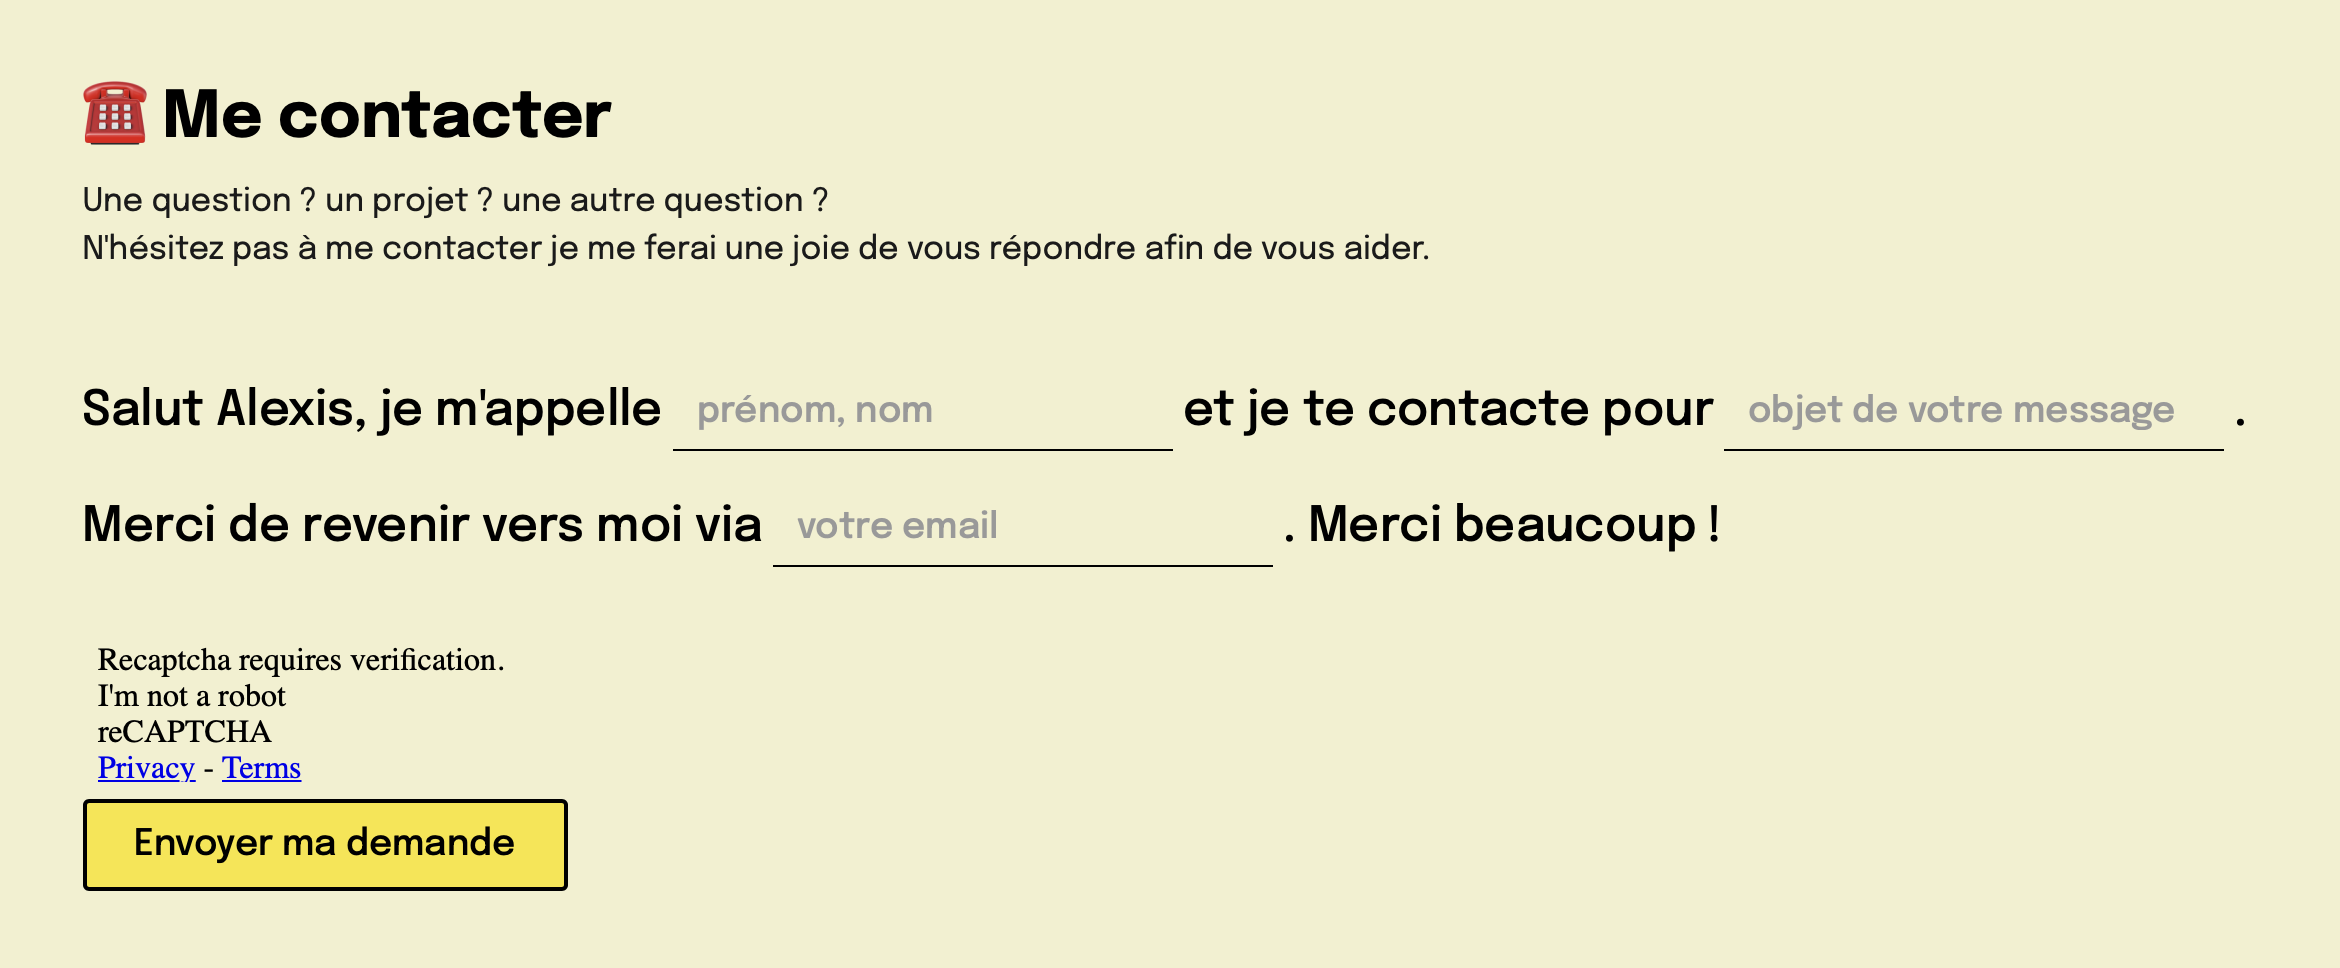
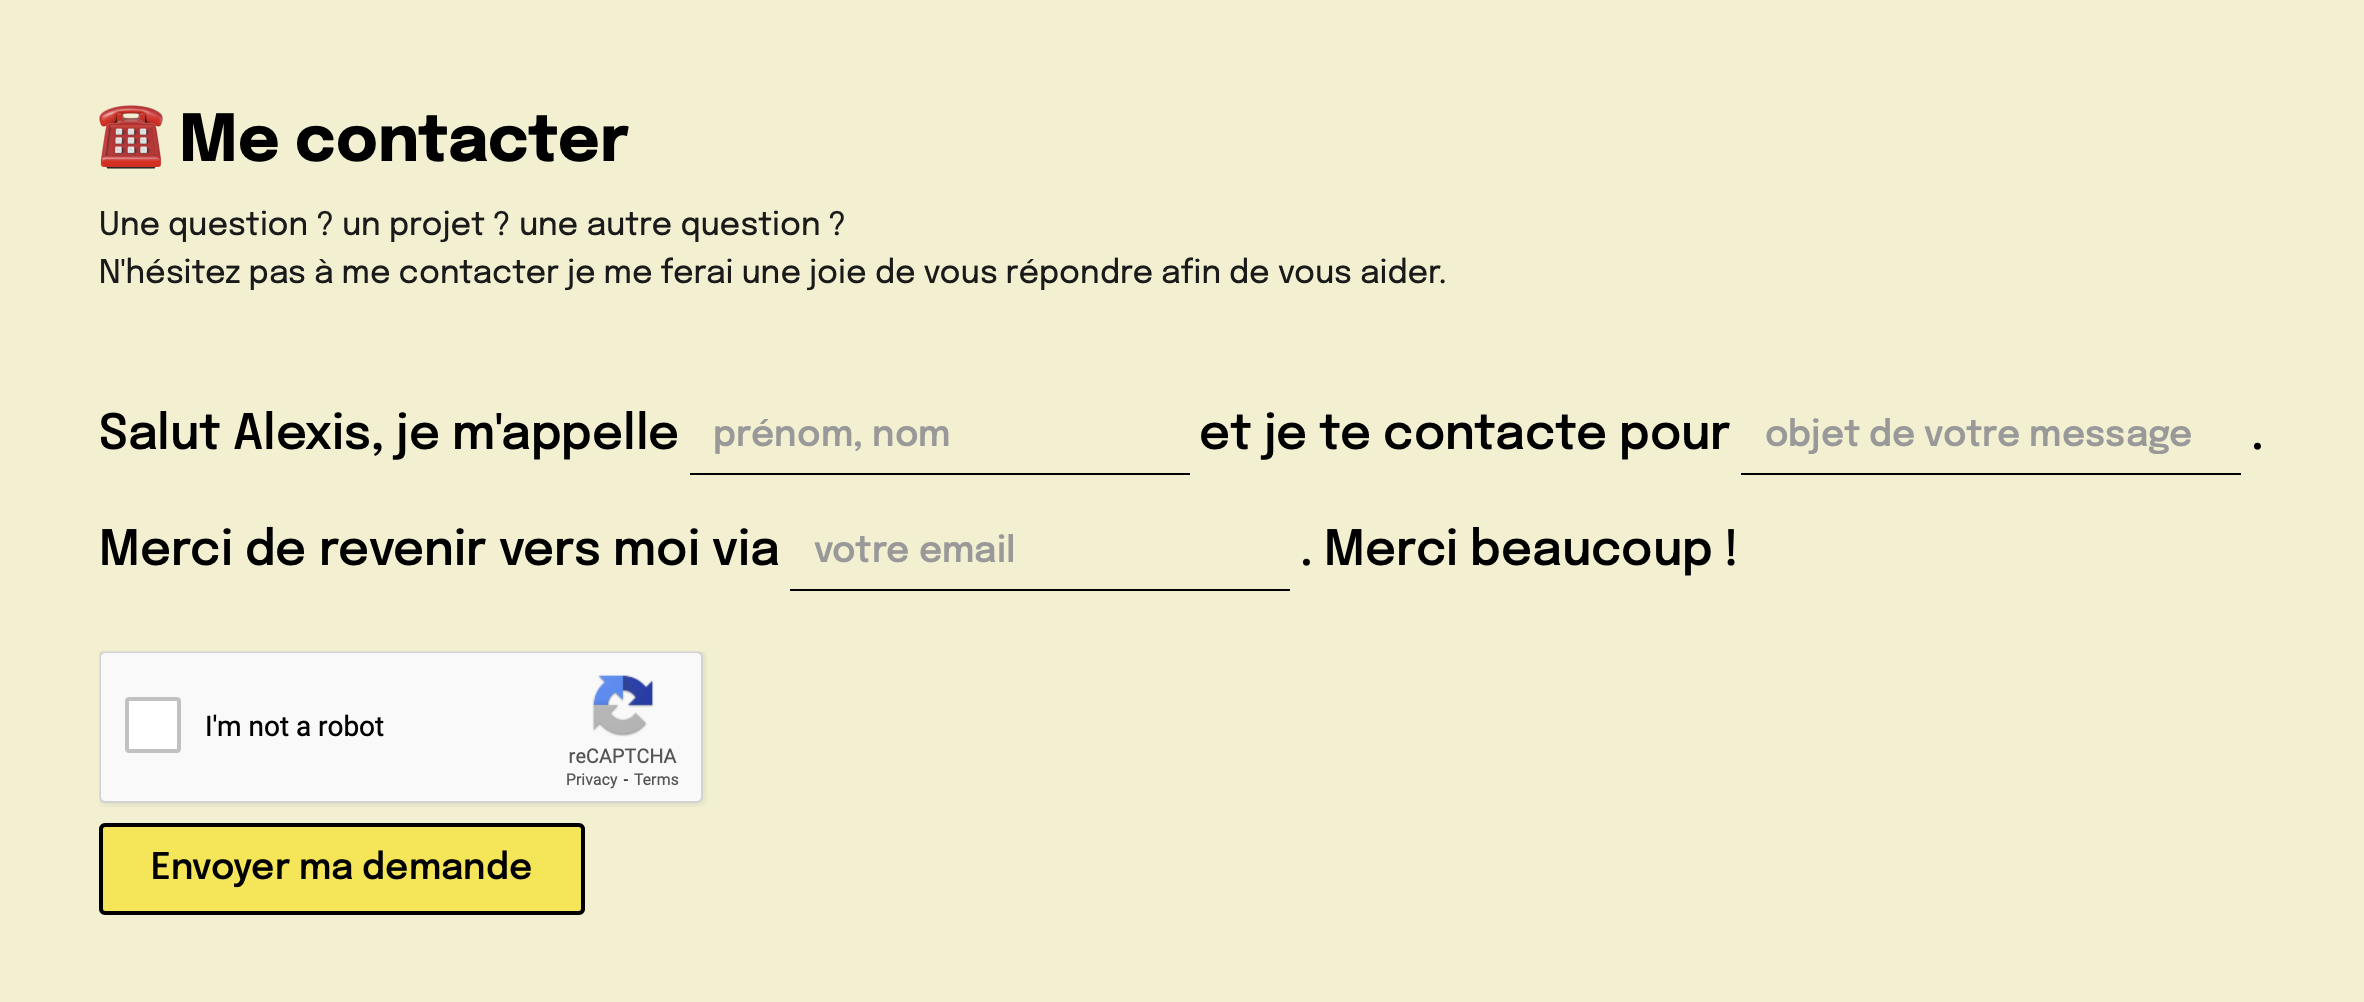
contact form styled

diff --git a/components/index.html b/components/index.html
@@ -232,23 +232,22 @@
 				src="img/contact-form.png" alt="contact form">
 		</div>
 		<div class="component__code">
-			<div class="page-section-skills">
-				<div class="skills-block">
-					<h3>Découvrez ici quelques uns de mes derniers <span class="highlight">projets</span> 👊</h3>
-					<a class="button" href="#!">Tous mes projets</a>
-				</div>
-				<div class="skills-block">
-					<h3>Mobile Food ch</h3>
-					<h4>UX + UI + Webflow</h4>
-					<h4>2 semaines</h4>
-					<a class="button" href="#!">Visiter le site</a>
-				</div>
-				<div class="skills-block">
-					<h3>Fly UX app</h3>
-					<h4>UX + UI + Figma</h4>
-					<h4>6 mois</h4>
-					<a class="button" href="#!">Découvrir ce projet</a>
-				</div>
+			<div class="page-section-contact">
+				<h2>☎ Me contacter</h2>
+				<p>Une question ? un projet ? une autre question ?</p>
+				<p>N'hésitez pas à me contacter je me ferai une joie de vous répondre afin de vous aider.</p>
+					<div class="contact-form">
+						<h4>Salut Alexis, je m'appelle </h4>
+						<input placeholder="pr&eacute;nom, nom">
+						<h4> et je te contacte pour </h4>
+						<input placeholder="objet de votre message">
+						<h4>.</h4>
+						<h4>Merci de revenir vers moi via</h4>
+						<input placeholder="votre email">
+						<h4>. Merci beaucoup !</h4>
+					</div>
+				<img class="contact-form__image" src="img/recaptcha.png" alt="image of recaptcha">
+				<a class="button" href="#!">Envoyer ma demande</a>
 			</div>
 		</div>
 	</article>

diff --git a/css/style.css b/css/style.css
@@ -57,6 +57,9 @@ h5 {
   font-size: 1.2rem;
 }
 
+p {
+  margin: 0;
+}
 header {
   display: grid;
   grid-template-columns: auto 1fr auto;
@@ -237,4 +240,38 @@ blockquote {
 
 .highlight {
   color: var(--red-orange);
+}
+
+.page-section-contact {
+  padding: 2rem;
+}
+
+.page-section-contact h2 {
+  margin: .5rem;
+}
+
+.contact-form {
+  margin: 3rem 0 1rem;
+}
+
+.contact-form h4 {
+  font-weight: 500;
+  display: inline-block;
+  line-height: 1;
+}
+
+.contact-form input {
+  font-family: var(--font-sans-serif);
+  font-weight: 500;
+  color: #ccc;
+  font-size: 1.2rem;
+  padding: .5em .5em;
+  border: transparent;
+  border-bottom: 1px solid black;
+  width: 300px;
+}
+
+.contact-form__image {
+  width: 300px;
+  padding: 0 0 1rem 0;
 }
